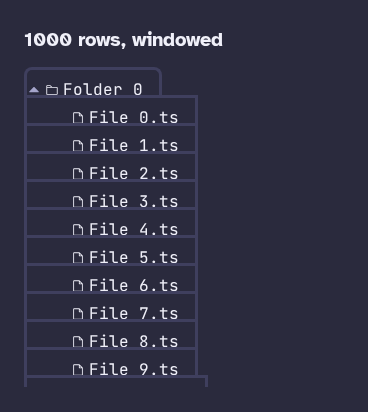
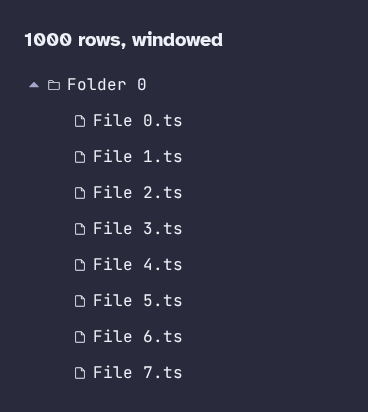
fix(ui): stop AtVirtualTree rows from overlapping
TreeVirtualizer positions rows using a fixed estimateSize (28px default)
with no built-in remeasurement, so a row's real rendered height (icon +
label + padding, or whatever a consumer's slot renders) can exceed the
estimate and overlap the next row -- measured 35.5px vs the assumed 28px
for AtTreeItem's own row. Wires up tanstack-virtual's measureElement so
each row reports its true height back instead of trusting a guessed
constant that can't fit every consumer's content.

Changed region(s): [[0.0598, 0.1456, 0.5679, 0.932]]

diff --git a/packages/ui/src/components/Tree/AtVirtualTree.vue b/packages/ui/src/components/Tree/AtVirtualTree.vue
@@ -1,4 +1,5 @@
 <script setup lang="ts">
+import type { ComponentPublicInstance } from 'vue'
 import type { FlattenedItem } from 'reka-ui'
 import { TreeRoot, TreeVirtualizer } from 'reka-ui'
 import { computed, provide, toRef } from 'vue'
@@ -58,6 +59,26 @@ const { getKey, getChildren, selectedItem, toModelValue } = useTreeSelection(
 function asTreeItem(item: FlattenedItem<Record<string, unknown>>) {
   return item as FlattenedItem<TreeItemData>
 }
+
+// TreeVirtualizer positions rows by a fixed estimateSize with no built-in
+// remeasurement -- a row's real height (icon + label + padding, and whatever
+// arbitrary content a consumer's slot renders) is whatever the estimate
+// guessed it'd be. measureElement (tanstack-virtual's own API for this,
+// keyed off the `data-index` TreeVirtualizer already stamps on each cloned
+// row) reports each row's true rendered height back, correcting subsequent
+// rows' offsets instead of guessing one fixed number that never fits every
+// consumer's content. Typed structurally (not against `Virtualizer` from
+// '@tanstack/vue-virtual') because reka-ui and this package can resolve to
+// different installed copies of '@tanstack/virtual-core' in the pnpm store,
+// and its `Virtualizer` class has private fields that make two same-shaped
+// instances from different copies nominally incompatible under vue-tsc.
+function measureRow(
+  virtualizer: { measureElement: (node: Element) => void },
+  el: Element | ComponentPublicInstance | null,
+) {
+  if (!el) return
+  virtualizer.measureElement('$el' in el ? (el.$el as Element) : el)
+}
 </script>
 
 <template>
@@ -75,8 +96,16 @@ function asTreeItem(item: FlattenedItem<Record<string, unknown>>) {
     @update:model-value="(value) => emit('update:modelValue', toModelValue(value))"
     @update:expanded="(value) => emit('update:expanded', value)"
   >
-    <TreeVirtualizer v-slot="{ item: flat }" :estimate-size="estimateSize" :overscan="overscan">
-      <TreeItem v-bind="asTreeItem(flat).bind" :has-children="flat.hasChildren">
+    <TreeVirtualizer
+      v-slot="{ item: flat, virtualizer }"
+      :estimate-size="estimateSize"
+      :overscan="overscan"
+    >
+      <TreeItem
+        :ref="(el) => measureRow(virtualizer, el)"
+        v-bind="asTreeItem(flat).bind"
+        :has-children="flat.hasChildren"
+      >
         <template #default="scope">
           <slot v-bind="scope" />
         </template>

diff --git a/packages/ui/src/components/Tree/AtVirtualTree.test.ts b/packages/ui/src/components/Tree/AtVirtualTree.test.ts
@@ -120,6 +120,27 @@ test('multiple mode toggles a rendered node into the array selection', async () 
   expect(view.emitted()['update:modelValue']?.at(-1)).toEqual([['file-0', 'file-1']])
 })
 
+// TreeVirtualizer positions rows by a fixed estimateSize (28px default) with
+// no built-in remeasurement -- if a row's real rendered height exceeds that
+// estimate, the next row's absolute offset is computed too early and the two
+// overlap. AtTreeItem's real height (icon + label + vertical padding) is
+// taller than 28px, so this only surfaces once real content is on screen.
+test('rendered rows do not overlap vertically', async () => {
+  render(VirtualTree, {
+    props: { items: bigTree, defaultExpanded: ['src'] },
+    attrs: { 'aria-label': 'Files', ...fixedHeight },
+    slots: labelSlot,
+  })
+  const rendered = await screen.findAllByRole('treeitem')
+  const rects = rendered.map((el) => el.getBoundingClientRect())
+  for (let i = 1; i < rects.length; i++) {
+    const current = rects[i]
+    const previous = rects[i - 1]
+    if (!current || !previous) continue
+    expect(current.top).toBeGreaterThanOrEqual(previous.bottom - 0.5)
+  }
+})
+
 // The single visual snap for VirtualTree: the Snapshot story's board.
 // Baseline: __snaps__/virtual-tree-chromium-linux.png. Rebaseline: pnpm test:update.
 test('Snapshot matches the visual board baseline', async () => {
